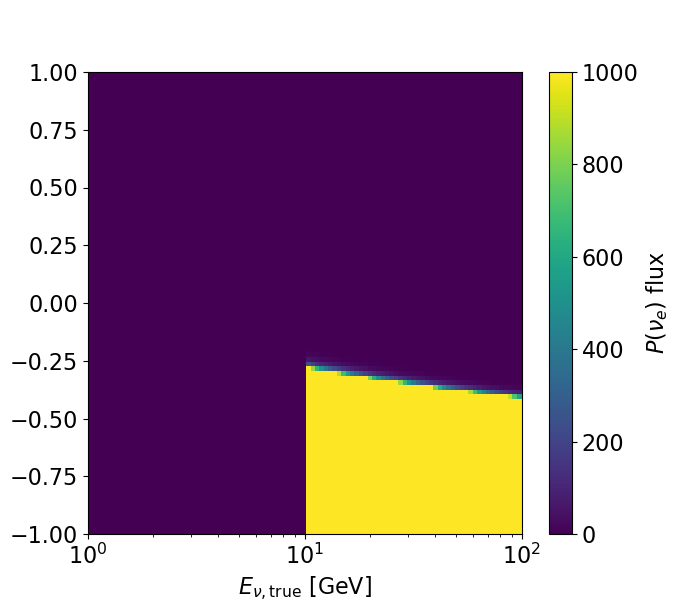
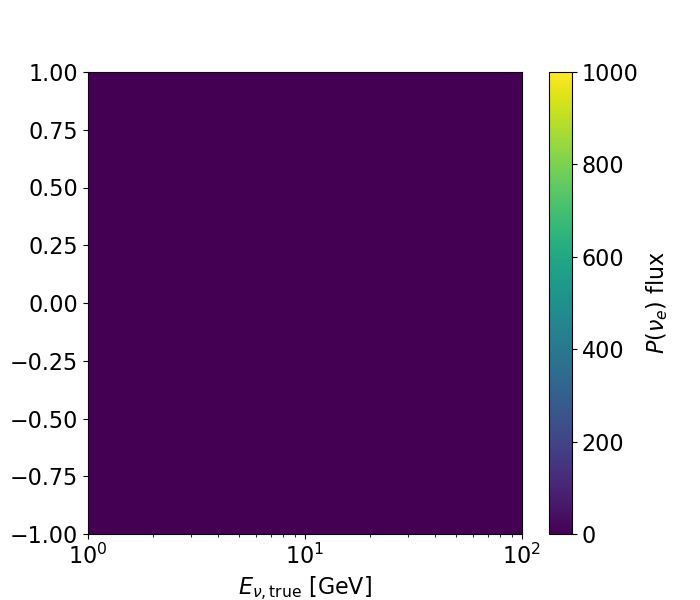
flux

Changed region(s): [[0.42, 0.6, 0.75, 0.9]]

diff --git a/sources/20200421_IceCube_Upgrade_Neutrino_Monte_Carlo_Simulation/IceCubeUpgradeNeutrinoMCDataRelease/events/analysis.py b/sources/20200421_IceCube_Upgrade_Neutrino_Monte_Carlo_Simulation/IceCubeUpgradeNeutrinoMCDataRelease/events/analysis.py
@@ -107,11 +107,11 @@ flux = nuflux.makeFlux("honda2006")
 fig, ax = plt.subplots(figsize = (7,6))
 energy_grid, coszen_grid = np.meshgrid(np.logspace(0., 2., num=100),\
 			 np.linspace(-1., 1., num=100), indexing="ij")
-flux_grid = flux.getFlux(nuflux.NuE, energy_grid, np.arccos(coszen_grid))
+flux_grid = flux.getFlux(nuflux.NuE, energy_grid/units.GeV, np.arccos(coszen_grid))
 cmesh = ax.pcolormesh(energy_grid, coszen_grid, flux_grid, vmin=0., vmax=1000.)
 fig.colorbar(cmesh, ax=ax, label=r"$P(\nu_e)$"" flux")
 ax.set_xlabel(r"$E_{\nu,\rm{true}}$ [GeV]")
 ax.set_xscale("log")
-_ = ax.set_ylabel(r"$\cos(\theta_{\rm{zenith,true}})$")
+ax.set_ylabel(r"$\cos(\theta_{\rm{zenith,true}})$")
 
 fig.savefig("Nu_E_Fluxx.png")
